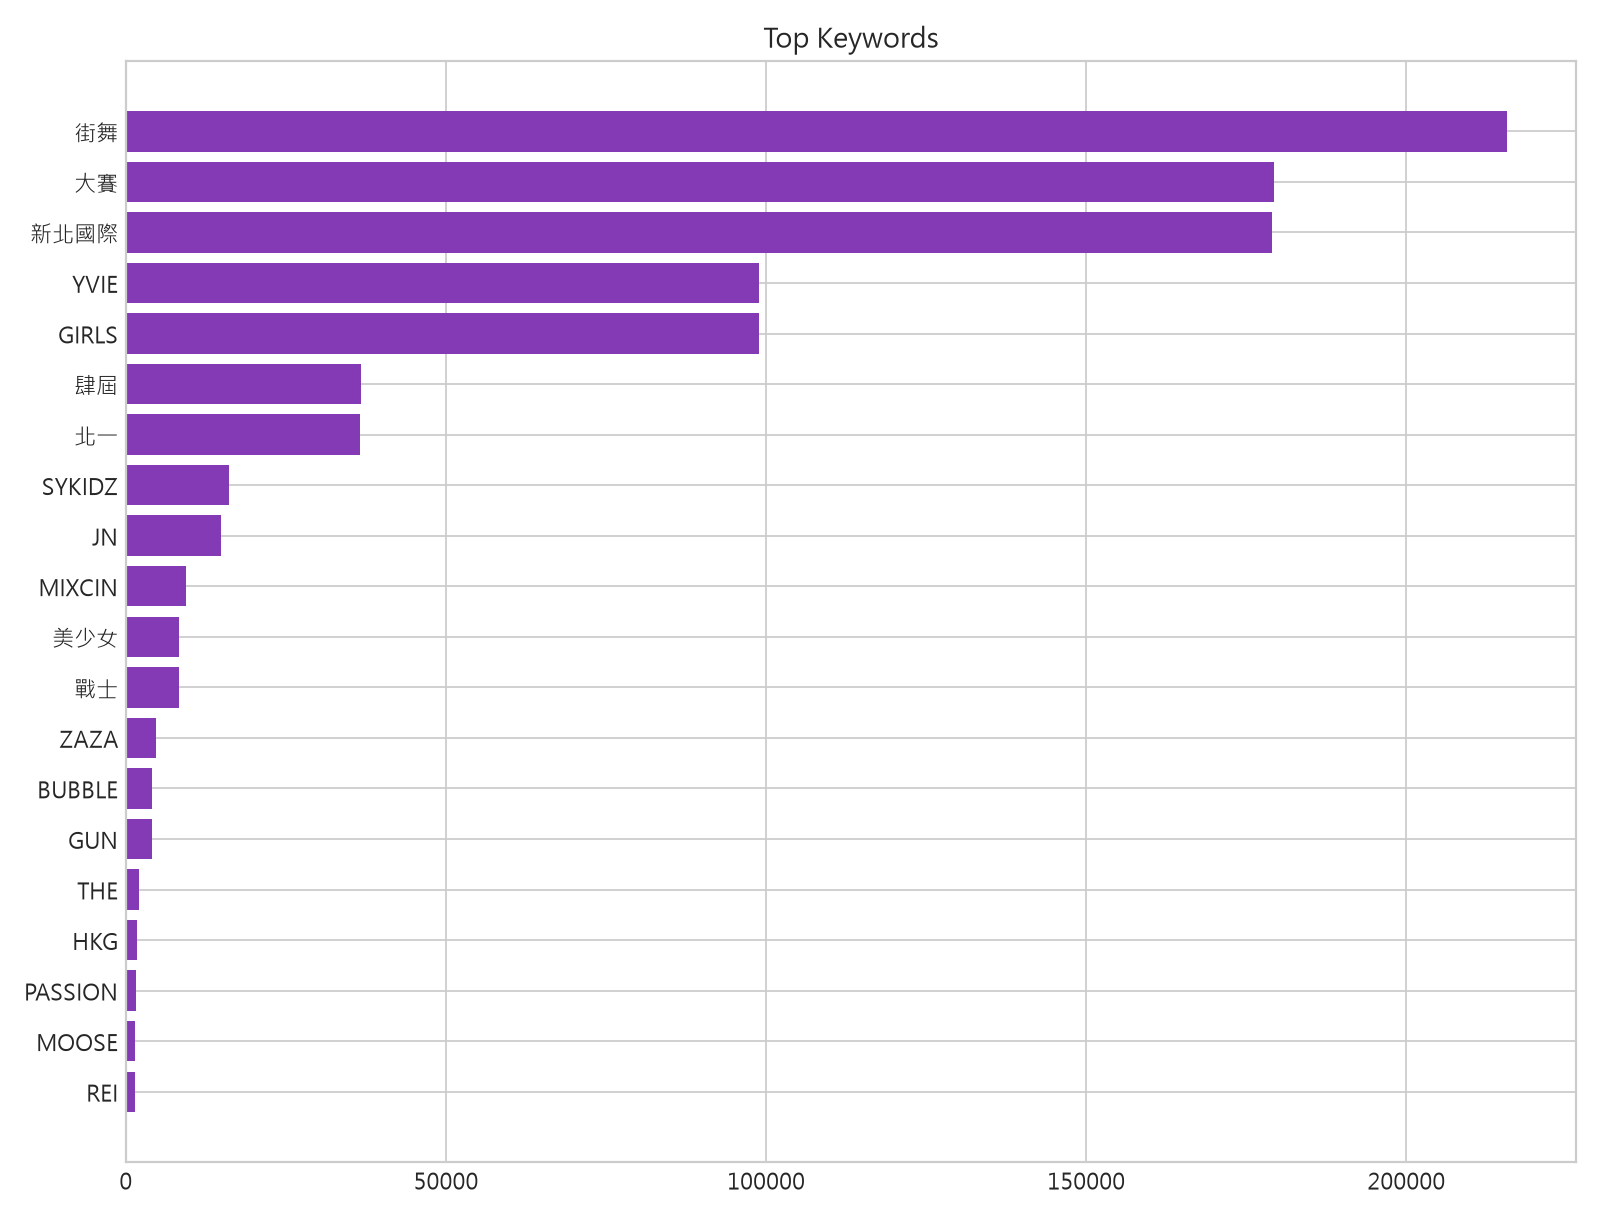
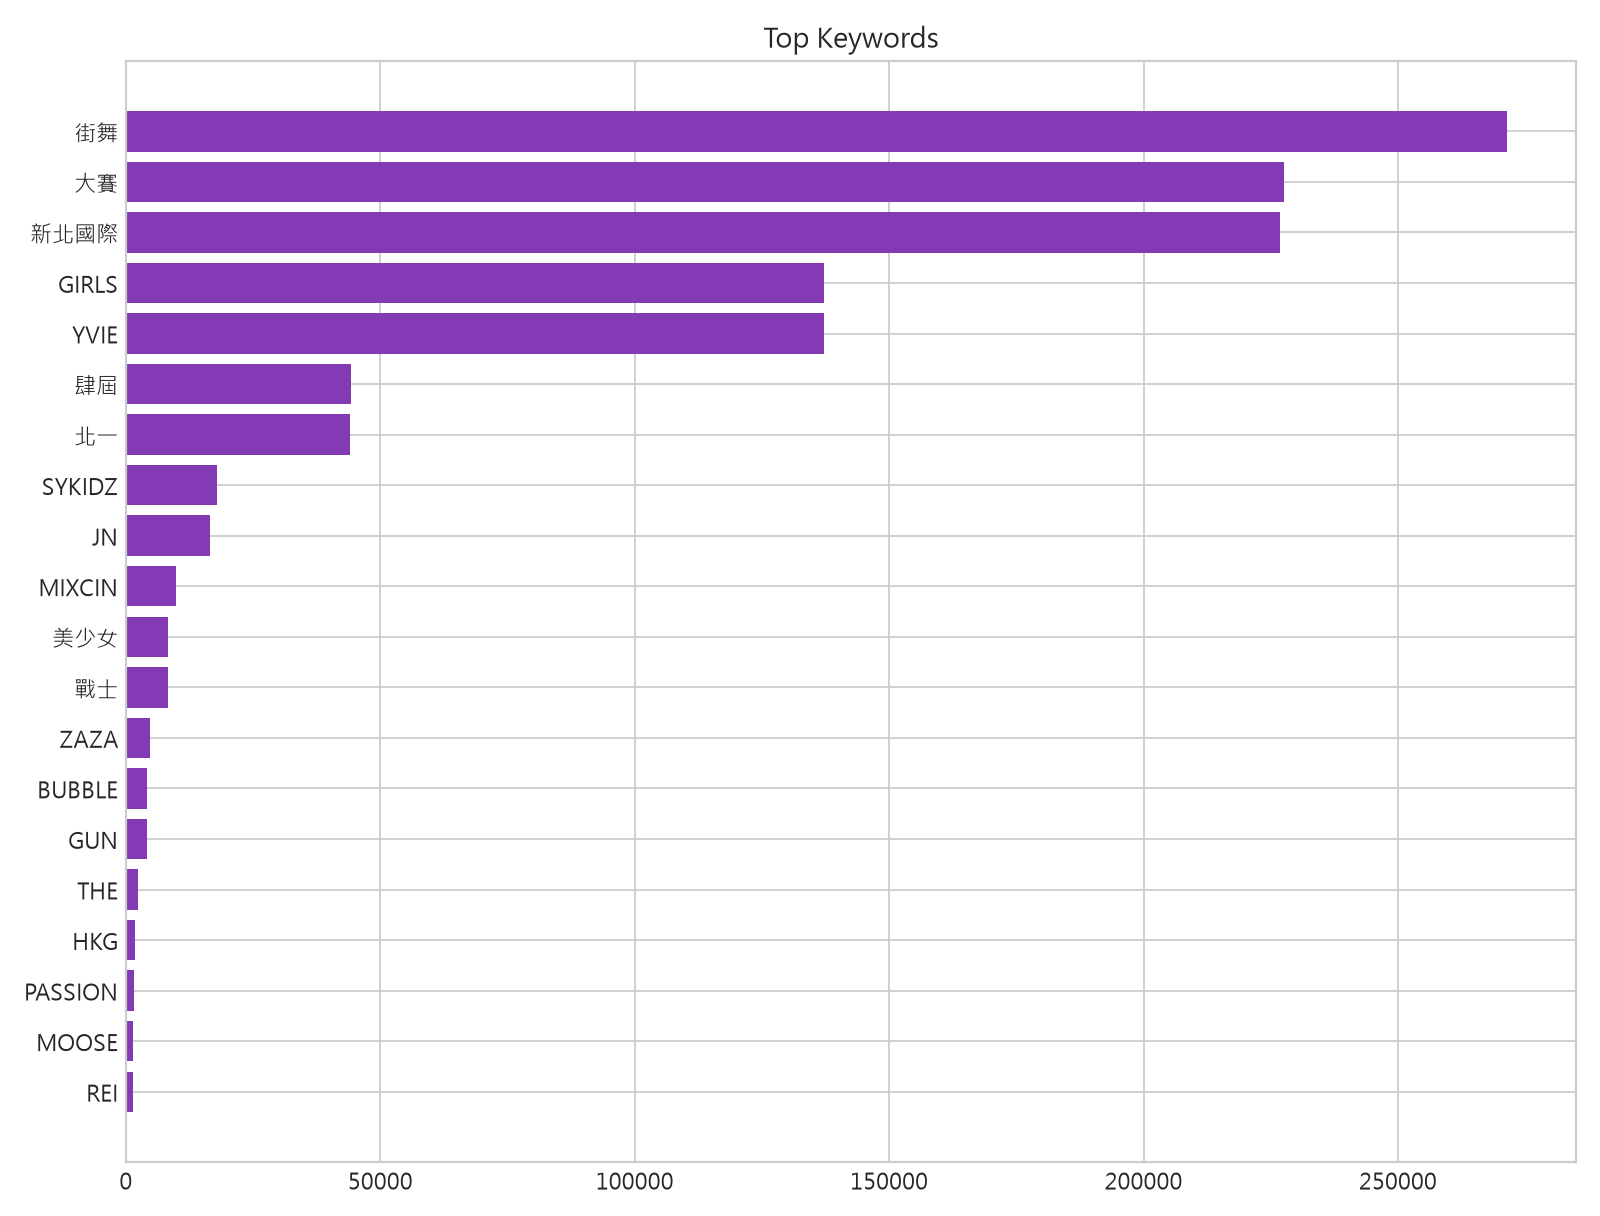
Refresh Pages report with comments through 2026-07-28 EOD.

diff --git a/docs/index.html b/docs/index.html
@@ -11,11 +11,11 @@
 <main class="container pb-5">
  <h2 class="h4 mb-3">基本統計</h2><div class="row g-3 mb-4">
  
- <div class="col-6 col-lg-3"><div class="card p-3"><small class="text-muted">總留言數</small><strong class="fs-3">179474</strong></div></div>
- <div class="col-6 col-lg-3"><div class="card p-3"><small class="text-muted">唯一留言者</small><strong class="fs-3">1303</strong></div></div>
- <div class="col-6 col-lg-3"><div class="card p-3"><small class="text-muted">平均留言長度</small><strong class="fs-3">25.3</strong></div></div>
- <div class="col-6 col-lg-3"><div class="card p-3"><small class="text-muted">應援留言數</small><strong class="fs-3">179588</strong></div></div>
- </div><p>留言最多的人：<strong>y.v_amy</strong>｜應援隊伍數：<strong>90</strong></p>
+ <div class="col-6 col-lg-3"><div class="card p-3"><small class="text-muted">總留言數</small><strong class="fs-3">227600</strong></div></div>
+ <div class="col-6 col-lg-3"><div class="card p-3"><small class="text-muted">唯一留言者</small><strong class="fs-3">1338</strong></div></div>
+ <div class="col-6 col-lg-3"><div class="card p-3"><small class="text-muted">平均留言長度</small><strong class="fs-3">25.45</strong></div></div>
+ <div class="col-6 col-lg-3"><div class="card p-3"><small class="text-muted">應援留言數</small><strong class="fs-3">227800</strong></div></div>
+ </div><p>留言最多的人：<strong>hsinhuachung</strong>｜應援隊伍數：<strong>94</strong></p>
 
  <div class="row g-4 mb-4">
   <div class="col-12 col-lg-6"><div class="card p-3"><h2 class="h5">應援隊伍排行</h2><img class="chart" src="assets/team_votes.png" alt="應援隊伍排行"></div></div>
@@ -23,8 +23,8 @@
  </div>
 
  <div class="row g-4 mb-4">
-  <div class="col-12 col-lg-6"><div class="card p-3"><h2 class="h5">Top 20 應援隊伍</h2><table class="table"><thead><tr><th>隊伍</th><th>票數</th></tr></thead><tbody><tr><td>YVIE GIRLS</td><td>98878</td></tr><tr><td>北一街舞貳拾肆屆</td><td>36230</td></tr><tr><td>SYKIDZ JN</td><td>14843</td></tr><tr><td>美少女戰士</td><td>8352</td></tr><tr><td>MIXCIN ZAZA</td><td>4628</td></tr><tr><td>BUBBLE GUN</td><td>4024</td></tr><tr><td>THE MIXCIN</td><td>2081</td></tr><tr><td>HKG</td><td>1731</td></tr><tr><td>MIXCIN PASSION</td><td>1589</td></tr><tr><td>MOOSE</td><td>1486</td></tr><tr><td>SYKIDZ REI</td><td>1247</td></tr><tr><td>CRAZY WEDNESDAY</td><td>783</td></tr><tr><td>MIXCIN NOVA</td><td>456</td></tr><tr><td>RAIN CITY KIDZ</td><td>432</td></tr><tr><td>MIXCIN BOSSY</td><td>308</td></tr><tr><td>MINI DSDJ</td><td>276</td></tr><tr><td>北一鎖舞第十七屆</td><td>236</td></tr><tr><td>MIXCIN NOVA加油</td><td>227</td></tr><tr><td>北一 街舞貳拾肆屆</td><td>193</td></tr><tr><td>北ㄧ街舞貳拾肆屆</td><td>177</td></tr></tbody></table></div></div>
-  <div class="col-12 col-lg-6"><div class="card p-3"><h2 class="h5">Top 20 留言者</h2><table class="table"><tbody><tr><td>y.v_amy</td><td>18802</td></tr><tr><td>hsinhuachung</td><td>18752</td></tr><tr><td>chenchenlinger</td><td>15096</td></tr><tr><td>fu.rino</td><td>9657</td></tr><tr><td>06.angle_</td><td>6114</td></tr><tr><td>cardanfor</td><td>5897</td></tr><tr><td>red_winnie</td><td>5867</td></tr><tr><td>luvqi57</td><td>5083</td></tr><tr><td>yachun62</td><td>4861</td></tr><tr><td>y.v_effy</td><td>4743</td></tr><tr><td>cwh224</td><td>4676</td></tr><tr><td>jone4289</td><td>3580</td></tr><tr><td>visa_4289</td><td>2863</td></tr><tr><td>y.v_alicialee</td><td>2764</td></tr><tr><td>w._.yiyj</td><td>2332</td></tr><tr><td>abrokenhouse701</td><td>2118</td></tr><tr><td>y.v_fifi</td><td>1895</td></tr><tr><td>theyreeeeeasshole</td><td>1558</td></tr><tr><td>yyachuan</td><td>1538</td></tr><tr><td>tongjing.chen</td><td>1505</td></tr></tbody></table></div></div>
+  <div class="col-12 col-lg-6"><div class="card p-3"><h2 class="h5">Top 20 應援隊伍</h2><table class="table"><thead><tr><th>隊伍</th><th>票數</th></tr></thead><tbody><tr><td>YVIE GIRLS</td><td>137186</td></tr><tr><td>北一街舞貳拾肆屆</td><td>43693</td></tr><tr><td>SYKIDZ JN</td><td>16555</td></tr><tr><td>美少女戰士</td><td>8352</td></tr><tr><td>MIXCIN ZAZA</td><td>4680</td></tr><tr><td>BUBBLE GUN</td><td>4227</td></tr><tr><td>THE MIXCIN</td><td>2371</td></tr><tr><td>HKG</td><td>1731</td></tr><tr><td>MIXCIN PASSION</td><td>1633</td></tr><tr><td>MOOSE</td><td>1486</td></tr><tr><td>SYKIDZ REI</td><td>1247</td></tr><tr><td>CRAZY WEDNESDAY</td><td>783</td></tr><tr><td>MIXCIN NOVA</td><td>456</td></tr><tr><td>RAIN CITY KIDZ</td><td>432</td></tr><tr><td>MIXCIN BOSSY</td><td>327</td></tr><tr><td>MINI DSDJ</td><td>276</td></tr><tr><td>北一鎖舞第十七屆</td><td>236</td></tr><tr><td>MIXCIN NOVA加油</td><td>227</td></tr><tr><td>北一 街舞貳拾肆屆</td><td>193</td></tr><tr><td>北ㄧ街舞貳拾肆屆</td><td>177</td></tr></tbody></table></div></div>
+  <div class="col-12 col-lg-6"><div class="card p-3"><h2 class="h5">Top 20 留言者</h2><table class="table"><tbody><tr><td>hsinhuachung</td><td>23000</td></tr><tr><td>y.v_amy</td><td>21125</td></tr><tr><td>chenchenlinger</td><td>20675</td></tr><tr><td>fu.rino</td><td>16899</td></tr><tr><td>cardanfor</td><td>9519</td></tr><tr><td>06.angle_</td><td>8644</td></tr><tr><td>red_winnie</td><td>6771</td></tr><tr><td>jone4289</td><td>6730</td></tr><tr><td>y.v_effy</td><td>6424</td></tr><tr><td>luvqi57</td><td>6332</td></tr><tr><td>yachun62</td><td>5480</td></tr><tr><td>visa_4289</td><td>5247</td></tr><tr><td>cwh224</td><td>4676</td></tr><tr><td>y.v_alicialee</td><td>4049</td></tr><tr><td>yyachuan</td><td>3092</td></tr><tr><td>w._.yiyj</td><td>2893</td></tr><tr><td>abrokenhouse701</td><td>2231</td></tr><tr><td>y.v_fifi</td><td>2045</td></tr><tr><td>y.v_mina</td><td>1836</td></tr><tr><td>y.v_nina</td><td>1648</td></tr></tbody></table></div></div>
  </div>
 
  <div class="row g-4 mb-4">
@@ -42,6 +42,6 @@
  </div>
 
  <div class="row g-4">
-  <div class="col-12"><div class="card p-3"><h2 class="h5">重複留言（前 20 筆）</h2><table class="table"><thead><tr><th>類型</th><th>留言</th><th>說明</th><th>相似度</th></tr></thead><tbody><tr><td>exact</td><td>2026新北國際街舞大賽 我挺YVIE GIRLS!</td><td>y.v_amy×18770, chenchenlinger×15086, hsinhuachung×11938, y.v_alicialee×2362, fu.rino×2062</td><td>1.0</td></tr><tr><td>exact</td><td>2026新北國際街舞大賽 我挺YVIE GIRLS！</td><td>yachun62×4826, y.v_effy×4683, hsinhuachung×3878, jone4289×3551, 327n_atasha×1490</td><td>1.0</td></tr><tr><td>exact</td><td>2026新北國際街舞大賽，我挺SYKIDZ REI ❤</td><td>feishan33__×4</td><td>1.0</td></tr><tr><td>exact</td><td>2026新北國際街舞大賽 我挺北一街舞貳拾肆屆！</td><td>06.angle_×6084, luvqi57×5069, abrokenhouse701×2093, theyreeeeeasshole×1558, tongjing.chen×1504</td><td>1.0</td></tr><tr><td>exact</td><td>2026新北國際街舞大賽 我挺北一街舞貳拾肆屆！2026新北國際街舞大賽 我挺北一街舞貳拾肆屆！</td><td>73zs._×33, meow_meow_meow_iii×23, hardto.choose×15, abrokenhouse701×9, eternity_0810_×6</td><td>1.0</td></tr><tr><td>exact</td><td>2026新北國際街舞大賽 我挺北一街舞貳拾肆屆���</td><td>06.angle_×3</td><td>1.0</td></tr><tr><td>exact</td><td>2026新北國際街舞大賽 我挺SYKIDZ JN</td><td>red_winnie×3815, zaq._.1212×290, _12nnnnn_×124, lr._.02_23×83, sa._.0212_×83</td><td>1.0</td></tr><tr><td>exact</td><td>2026新北國際街舞大賽 我挺YVIE GIRLS</td><td>cardanfor×5877, y.v_fifi×1673, hsinhuachung×1657, y.v_alicialee×56, gwc._.0904×39</td><td>1.0</td></tr><tr><td>exact</td><td>2026新北國際街舞大賽 我挺SYKIDZ JN!</td><td>_1cnn.cky×573, luo_zin_ing×325, 77zzzzzz__×193, yyc_.51×160, mimmy.syk×114</td><td>1.0</td></tr><tr><td>exact</td><td>2026新北國際街舞大賽 我挺SYKIDZ REI!</td><td>o.627._.yo×3</td><td>1.0</td></tr><tr><td>exact</td><td>2026新北國際街舞大賽 我挺SYKIDZ REI</td><td>_im.ys2×267, shiao_423×184, _7kzzc×123, celia__xin×77, oogeshon×75</td><td>1.0</td></tr><tr><td>exact</td><td>2026新北國際街舞大賽 我挺YVIE GIRLS! 2026新北國際街舞大賽 我挺YVIE GIRLS!</td><td>hsinhuachung×40</td><td>1.0</td></tr><tr><td>exact</td><td>2026新北國際街舞大賽我挺MIXCIN ZAZA🐆🔱</td><td>candicekang83×248, 09._hanhan×92, 09._.sihan×88, _xin.0604×46, 0824eva_15y×31</td><td>1.0</td></tr><tr><td>exact</td><td>2026新北國際街舞大賽我挺MIXCIN ZAZA🐆</td><td>glitch_06_13×913, hsu_.1129×26, smal.l_jus×21, yshinun×16, cutie.yu_2222×5</td><td>1.0</td></tr><tr><td>exact</td><td>2026 新北國際街舞大賽 我挺 MIXCIN ZAZA❤🔥</td><td>clds._.4683×137</td><td>1.0</td></tr><tr><td>exact</td><td>2026新北國際街舞大賽 我挺 必比登六星⭐</td><td>lynnkang46×20</td><td>1.0</td></tr><tr><td>exact</td><td>2026 新北國際街舞大賽 我挺 MIXCIN ZAZA</td><td>clds._.4683×7</td><td>1.0</td></tr><tr><td>exact</td><td>2026新北國際街舞大賽 我挺THE MIXCIN!!</td><td>tanya_and_cindy_mom×329, chloe0311_×35</td><td>1.0</td></tr><tr><td>exact</td><td>2026 新北國際街舞大賽 我挺 必比登六星🌟</td><td>papa.0401×23, clds._.4683×10, lynnkang46×2</td><td>1.0</td></tr><tr><td>exact</td><td>2026 新北國際街舞大賽 我挺 MIXCIN ZAZA😍🐆</td><td>papa.0401×59</td><td>1.0</td></tr></tbody></table></div></div>
+  <div class="col-12"><div class="card p-3"><h2 class="h5">重複留言（前 20 筆）</h2><table class="table"><thead><tr><th>類型</th><th>留言</th><th>說明</th><th>相似度</th></tr></thead><tbody><tr><td>exact</td><td>2026新北國際街舞大賽 我挺YVIE GIRLS!</td><td>y.v_amy×21083, chenchenlinger×20655, hsinhuachung×13072, y.v_alicialee×3647, fu.rino×2062</td><td>1.0</td></tr><tr><td>exact</td><td>2026新北國際街舞大賽 我挺YVIE GIRLS！</td><td>hsinhuachung×6989, jone4289×6701, y.v_effy×6364, yachun62×5444, yyachuan×1989</td><td>1.0</td></tr><tr><td>exact</td><td>2026新北國際街舞大賽，我挺SYKIDZ REI ❤</td><td>feishan33__×4</td><td>1.0</td></tr><tr><td>exact</td><td>2026新北國際街舞大賽 我挺北一街舞貳拾肆屆！</td><td>06.angle_×8587, luvqi57×6302, abrokenhouse701×2205, theyreeeeeasshole×1558, tongjing.chen×1504</td><td>1.0</td></tr><tr><td>exact</td><td>2026新北國際街舞大賽 我挺北一街舞貳拾肆屆！2026新北國際街舞大賽 我挺北一街舞貳拾肆屆！</td><td>73zs._×37, meow_meow_meow_iii×23, 06.angle_×18, hardto.choose×15, luvqi57×15</td><td>1.0</td></tr><tr><td>exact</td><td>2026新北國際街舞大賽 我挺北一街舞貳拾肆屆���</td><td>06.angle_×3</td><td>1.0</td></tr><tr><td>exact</td><td>2026新北國際街舞大賽 我挺SYKIDZ JN</td><td>red_winnie×4718, zaq._.1212×290, _12nnnnn_×124, lr._.02_23×83, sa._.0212_×83</td><td>1.0</td></tr><tr><td>exact</td><td>2026新北國際街舞大賽 我挺YVIE GIRLS</td><td>cardanfor×9497, y.v_fifi×1823, hsinhuachung×1657, y.v_alicialee×56, gwc._.0904×39</td><td>1.0</td></tr><tr><td>exact</td><td>2026新北國際街舞大賽 我挺SYKIDZ JN!</td><td>_1cnn.cky×573, luo_zin_ing×325, 77zzzzzz__×193, yyc_.51×160, mimmy.syk×114</td><td>1.0</td></tr><tr><td>exact</td><td>2026新北國際街舞大賽 我挺SYKIDZ REI!</td><td>o.627._.yo×3</td><td>1.0</td></tr><tr><td>exact</td><td>2026新北國際街舞大賽 我挺SYKIDZ REI</td><td>_im.ys2×267, shiao_423×184, _7kzzc×123, celia__xin×77, oogeshon×75</td><td>1.0</td></tr><tr><td>exact</td><td>2026新北國際街舞大賽 我挺YVIE GIRLS! 2026新北國際街舞大賽 我挺YVIE GIRLS!</td><td>hsinhuachung×40</td><td>1.0</td></tr><tr><td>exact</td><td>2026新北國際街舞大賽我挺MIXCIN ZAZA🐆🔱</td><td>candicekang83×248, 09._hanhan×92, 09._.sihan×88, _xin.0604×46, 0824eva_15y×31</td><td>1.0</td></tr><tr><td>exact</td><td>2026新北國際街舞大賽我挺MIXCIN ZAZA🐆</td><td>glitch_06_13×913, hsu_.1129×26, smal.l_jus×21, yshinun×16, cutie.yu_2222×5</td><td>1.0</td></tr><tr><td>exact</td><td>2026 新北國際街舞大賽 我挺 MIXCIN ZAZA❤🔥</td><td>clds._.4683×137</td><td>1.0</td></tr><tr><td>exact</td><td>2026新北國際街舞大賽 我挺 必比登六星⭐</td><td>lynnkang46×20</td><td>1.0</td></tr><tr><td>exact</td><td>2026 新北國際街舞大賽 我挺 MIXCIN ZAZA</td><td>clds._.4683×7</td><td>1.0</td></tr><tr><td>exact</td><td>2026新北國際街舞大賽 我挺THE MIXCIN!!</td><td>tanya_and_cindy_mom×329, chloe0311_×35</td><td>1.0</td></tr><tr><td>exact</td><td>2026 新北國際街舞大賽 我挺 必比登六星🌟</td><td>papa.0401×23, clds._.4683×10, lynnkang46×2</td><td>1.0</td></tr><tr><td>exact</td><td>2026 新北國際街舞大賽 我挺 MIXCIN ZAZA😍🐆</td><td>papa.0401×59</td><td>1.0</td></tr></tbody></table></div></div>
  </div>
 </main></body></html>
